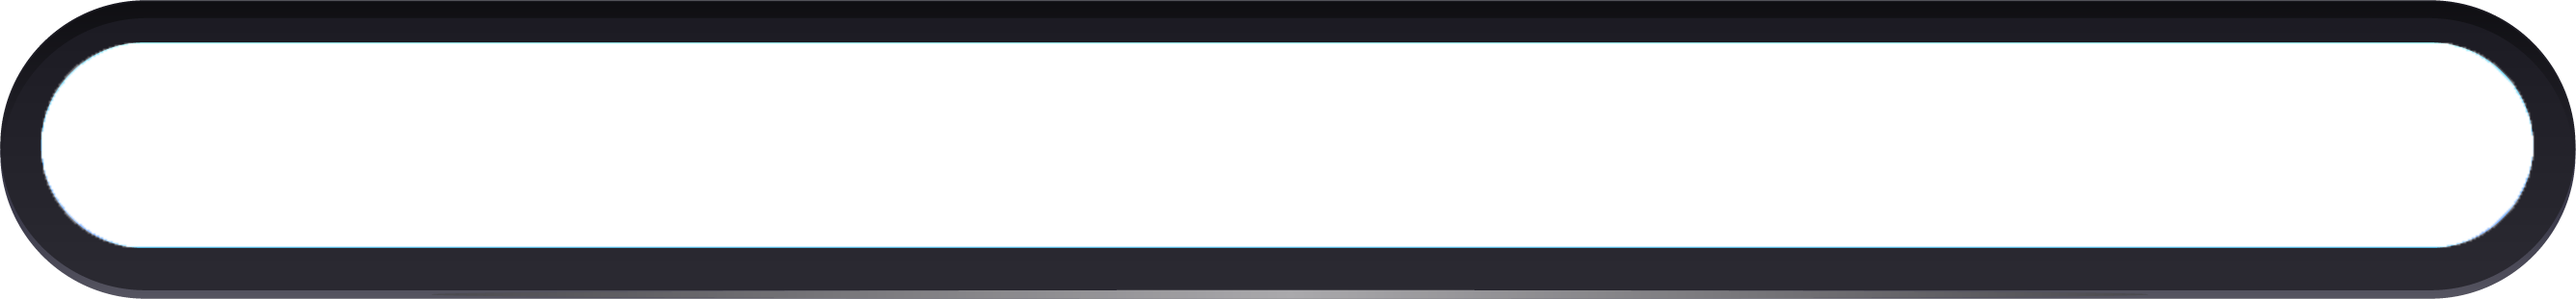
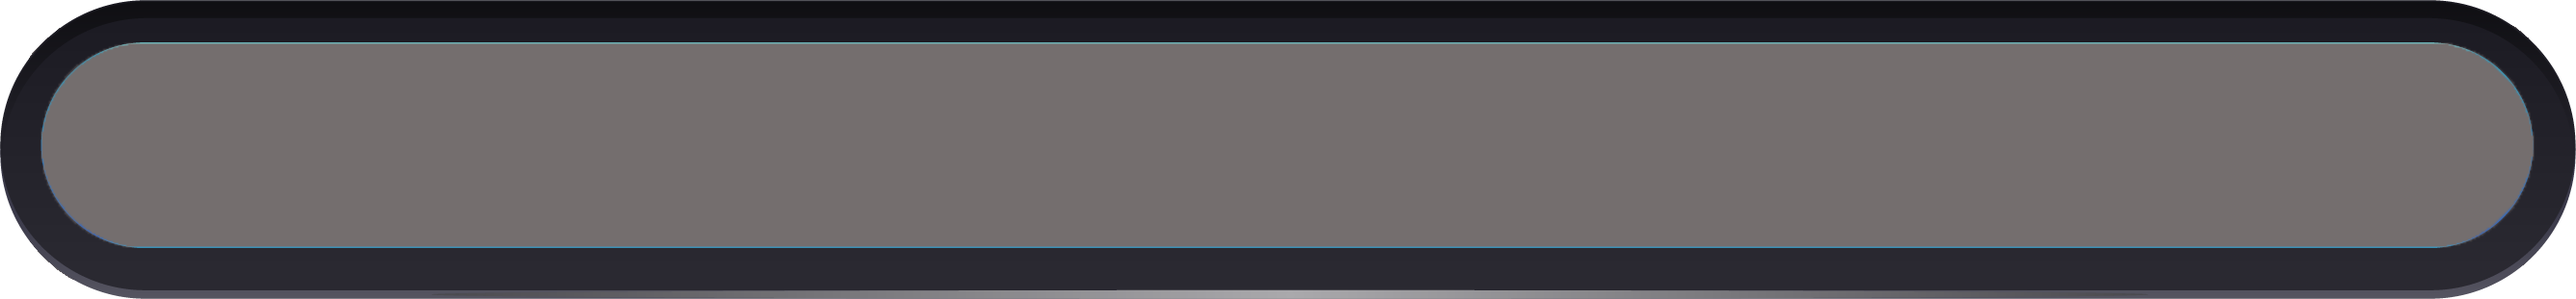
+ Add heath bar to crystal

diff --git a/RiseOfEvil/Classes/Monster.cpp b/RiseOfEvil/Classes/Monster.cpp
@@ -181,6 +181,7 @@ void Monster::Update(float deltaTime)
 	else {
 		timeCount += deltaTime;
 	}
+
 }
 
 void Monster::Move(Vec2 point)
@@ -242,83 +243,92 @@ void Monster::Action(int direction)
 {
 	switch (direction)
 	{
-	case E:
-	{
-		m_sprite->stopAllActions();
-		auto walkingE = Animate::create(Monster::AnimationMonster(m_fomatAnimation, m_png[8], m_png[9], 0.05f));
-		walkingE->retain();
-		m_sprite->runAction(RepeatForever::create(walkingE));
-		break;
-	}
+		case E:
+		{
+			m_sprite->stopAllActions();
+			auto walkingE = Animate::create(Monster::AnimationMonster(m_fomatAnimation, m_png[8], m_png[9], 0.05f));
+			walkingE->retain();
+			m_sprite->runAction(RepeatForever::create(walkingE));
+			break;
+		}
 
-	case W:
-	{
-		m_sprite->stopAllActions();
-		auto walkingW = Animate::create(Monster::AnimationMonster(m_fomatAnimation, m_png[0], m_png[1], 0.05f));
-		walkingW->retain();
-		m_sprite->runAction(RepeatForever::create(walkingW));
-		break;
-	}
+		case W:
+		{
+			m_sprite->stopAllActions();
+			auto walkingW = Animate::create(Monster::AnimationMonster(m_fomatAnimation, m_png[0], m_png[1], 0.05f));
+			walkingW->retain();
+			m_sprite->runAction(RepeatForever::create(walkingW));
+			break;
+		}
 
-	case S:
-	{
-		m_sprite->stopAllActions();
-		auto walkingS = Animate::create(Monster::AnimationMonster(m_fomatAnimation, m_png[12], m_png[13], 0.05f));
-		walkingS->retain();
-		m_sprite->runAction(RepeatForever::create(walkingS));
-		break;
-	}
+		case S:
+		{
+			m_sprite->stopAllActions();
+			auto walkingS = Animate::create(Monster::AnimationMonster(m_fomatAnimation, m_png[12], m_png[13], 0.05f));
+			walkingS->retain();
+			m_sprite->runAction(RepeatForever::create(walkingS));
+			break;
+		}
 
-	case N:
-	{
-		m_sprite->stopAllActions();
-		auto walkingN = Animate::create(Monster::AnimationMonster(m_fomatAnimation, m_png[4], m_png[5], 0.05f));
-		walkingN->retain();
-		m_sprite->runAction(RepeatForever::create(walkingN));
-		break;
-	}
+		case N:
+		{
+			m_sprite->stopAllActions();
+			auto walkingN = Animate::create(Monster::AnimationMonster(m_fomatAnimation, m_png[4], m_png[5], 0.05f));
+			walkingN->retain();
+			m_sprite->runAction(RepeatForever::create(walkingN));
+			break;
+		}
 
-	case SE:
-	{
-		m_sprite->stopAllActions();
-		auto walkingSE = Animate::create(Monster::AnimationMonster(m_fomatAnimation, m_png[10], m_png[11], 0.05f));
-		walkingSE->retain();
-		m_sprite->runAction(RepeatForever::create(walkingSE));
-		break;
-	}
+		case SE:
+		{
+			m_sprite->stopAllActions();
+			auto walkingSE = Animate::create(Monster::AnimationMonster(m_fomatAnimation, m_png[10], m_png[11], 0.05f));
+			walkingSE->retain();
+			m_sprite->runAction(RepeatForever::create(walkingSE));
+			break;
+		}
 
-	case SW:
-	{
-		m_sprite->stopAllActions();
-		auto walkingSW = Animate::create(Monster::AnimationMonster(m_fomatAnimation, m_png[14], m_png[15], 0.05f));
-		walkingSW->retain();
-		m_sprite->runAction(RepeatForever::create(walkingSW));
-		break;
-	}
+		case SW:
+		{
+			m_sprite->stopAllActions();
+			auto walkingSW = Animate::create(Monster::AnimationMonster(m_fomatAnimation, m_png[14], m_png[15], 0.05f));
+			walkingSW->retain();
+			m_sprite->runAction(RepeatForever::create(walkingSW));
+			break;
+		}
 
-	case NE:
-	{
-		m_sprite->stopAllActions();
-		auto walkingNE = Animate::create(Monster::AnimationMonster(m_fomatAnimation, m_png[6], m_png[7], 0.05f));
-		walkingNE->retain();
-		m_sprite->runAction(RepeatForever::create(walkingNE));
-		break;
-	}
+		case NE:
+		{
+			m_sprite->stopAllActions();
+			auto walkingNE = Animate::create(Monster::AnimationMonster(m_fomatAnimation, m_png[6], m_png[7], 0.05f));
+			walkingNE->retain();
+			m_sprite->runAction(RepeatForever::create(walkingNE));
+			break;
+		}
 
-	case NW:
-	{
-		m_sprite->stopAllActions();
-		auto walkingNW = Animate::create(Monster::AnimationMonster(m_fomatAnimation, m_png[2], m_png[3], 0.05f));
-		walkingNW->retain();
-		m_sprite->runAction(RepeatForever::create(walkingNW));
-		break;
-	}
-
+		case NW:
+		{
+			m_sprite->stopAllActions();
+			auto walkingNW = Animate::create(Monster::AnimationMonster(m_fomatAnimation, m_png[2], m_png[3], 0.05f));
+			walkingNW->retain();
+			m_sprite->runAction(RepeatForever::create(walkingNW));
+			break;
+		}
 	}
 }
 
-void Monster::Acttack(Object * target)
+void Monster::AttackCrystal(Crystal *crystal, float deltaTime)
 {
+	if (countToAttack >= m_attackSpeed)
+	{
+		crystal->setHitPoint(crystal->getHitPoint() - GetDamage());
+		log("%d",crystal->getHitPoint());
+		countToAttack = 0;
+	}
+	else
+	{
+		countToAttack += deltaTime;
+	}
 }
 
 void Monster::DoDead()
@@ -441,3 +451,9 @@ float Monster::GetMaxSpeed()
 {
 	return maxSpeed;
 }
+
+int Monster::GetDamage()
+{
+	return random(m_minimumAtk, m_maximumAtk);
+}
+

diff --git a/RiseOfEvil/Classes/WorldScene1.cpp b/RiseOfEvil/Classes/WorldScene1.cpp
@@ -294,6 +294,13 @@ void WorldScene1::update(float deltaTime)
 		{
 			listMonster[i]->setProgressBar();
 		}
+		for (int i = 0; i < listMonster.size(); i++)
+		{
+			if (listMonster[i]->GetSprite()->getPosition().getDistance(crystal->getSprite()->getPosition()) < 50)
+			{
+				listMonster[i]->AttackCrystal(crystal, deltaTime);
+			}
+		}
 		if (time >= 30) {
 			if ((numOfWave + 1) <= 5)
 			{
@@ -353,12 +360,10 @@ void WorldScene1::update(float deltaTime)
 				if (nearestMonster->GetSprite()->getPosition().getDistance(listTower[tower]->GetSprite()->getPosition()) < listTower[tower]->GetRange())
 				{
 					listTower[tower]->Update(deltaTime, nearestMonster);
-					log("nearestMonster Speed:%f", nearestMonster->GetMovementSpeed());
 					if (listTower[tower]->GetTypeTower() == SLOW_TOWER)
 					{
 						nearestMonster->SetIsSlow(true);
 						nearestMonster->SetSlowRunSpeed();
-						log("nearestMonster Speed:%f", nearestMonster->GetMovementSpeed());
 					}
 					i = 100;
 				}

diff --git a/RiseOfEvil/Classes/Monster.h b/RiseOfEvil/Classes/Monster.h
@@ -1,6 +1,7 @@
 #pragma once
 #include "cocos2d.h"
 #include "Objects.h"
+#include "Crystal.h"
 #include <string>
 #define NORMAL_MONSTER 1
 #define MAGICAN_MONSTER 2
@@ -38,6 +39,7 @@ private:
 	float m_velocity;
 	float speed; // 80% maxSpeed
 	float maxSpeed;
+	float countToAttack = 0;
 	Sprite * m_bloodBar;
 	Sprite * m_blood;
 	//vector<Skill *>m_listSkill;
@@ -59,7 +61,7 @@ public:
 	void Move(Vec2);
 	Animation* AnimationMonster(string, int, int, float);
 	void Action(int);
-	void Acttack(Object *);
+	void AttackCrystal(Crystal *,float);
 	void DoDead();
 	void SetType(int type);
 	void SetMovementSpeed(float);
@@ -78,4 +80,5 @@ public:
 	void SetSlowRunSpeed();
 	void SetIsSlow(bool);
 	float GetMaxSpeed();
+	int GetDamage();
 };

diff --git a/RiseOfEvil/Classes/WorldScene1.h b/RiseOfEvil/Classes/WorldScene1.h
@@ -37,8 +37,10 @@ private:
 	Monster * nearestMonster;
 	float time;
 	float countTimeToPause;
+	float countTimeToAttack = 0;
 	int currentGold;
 	int numOfWave;
+	int monsterIndex = 0;
 	Menu *menu;
 	MenuItemImage *archerIcon;
 	MenuItemImage *magicIcon;

diff --git a/RiseOfEvil/Classes/Crystal.cpp b/RiseOfEvil/Classes/Crystal.cpp
@@ -30,7 +30,7 @@ void Crystal::Init()
 
 void Crystal::setPercentOfHealthBar()
 {
-	hpBar->setPercentage((m_hitpoint / m_maxHitpoint) * 100.0);
+	hpBar->setPercentage((m_hitpoint / (m_maxHitpoint * 1.0) * 100));
 }
 
 int Crystal::getHitPoint()
